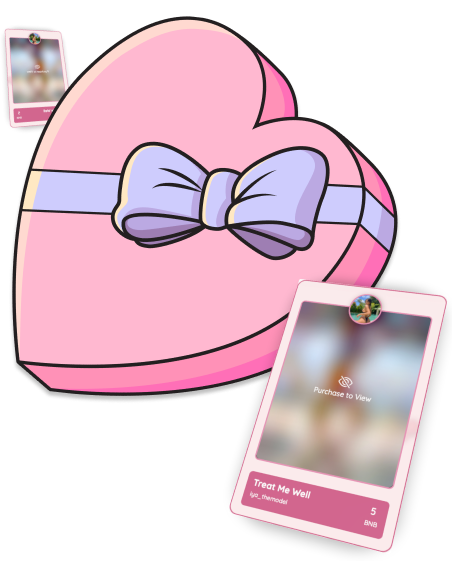
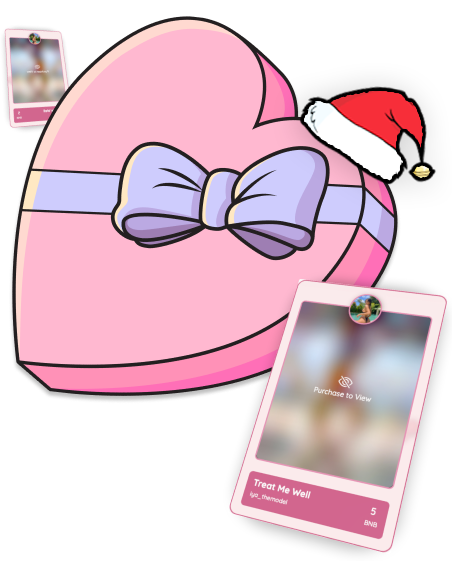
christmas update

Changed region(s): [[0.6504, 0.1515, 0.9602, 0.3333]]

diff --git a/pages/api/stream/sweet-shop-notifs.js b/pages/api/stream/sweet-shop-notifs.js
@@ -1,0 +1,104 @@
+import dbConnect from "../../../utils/dbConnect";
+import PendingNFT from "../../../models/PendingNFT";
+import NFT from "../../../models/NFT";
+import Model from "../../../models/Model";
+import withSession from "../../../lib/session";
+import { contractAddresses } from "../../../treat/lib/constants";
+
+import Web3 from "web3";
+
+dbConnect();
+
+const web3 = new Web3(
+  "https://divine-restless-feather.bsc.quiknode.pro/f9ead03ddd05508e4fe1f6952eea26ac035c8408/"
+);
+
+function wait(time) {
+  return new Promise((resolve, reject) => {
+    setTimeout(() => resolve("hello"), time);
+  });
+}
+// const contract = new web3.eth.Contract(
+//   TreatMarketplaceAbi,
+//   contractAddresses.creatorMart[56]
+// );
+
+export default withSession(async (req, res) => {
+  const { method } = req;
+
+  switch (method) {
+    case "GET":
+      try {
+        res.status(200).json({ success: true });
+      } catch (error) {
+        res.status(400).json({ success: false, error: error });
+      }
+      break;
+    case "POST":
+      try {
+        if (req.body.status !== "confirmed") return res.status(200);
+
+        if (!logs || logs.length === 0)
+          return res.status(200).json({ success: false });
+
+        const log = logs.find((l) => l.transactionHash === req.body.hash);
+        const logDataArray = log.data
+          .substring(2, log.data.length)
+          .match(/.{1,64}/g);
+        console.log({ logDataArray });
+
+        const numberOfNFTs = Web3.utils.hexToNumber("0x" + logDataArray[4]);
+        console.log({ numberOfNFTs });
+
+        const nftIDs = [...Array(numberOfNFTs).keys()].map((i) =>
+          web3.utils.hexToNumber("0x" + logDataArray[5 + i])
+        );
+        console.log({ nftIDs });
+
+        const pendingNFTs = await PendingNFT.find({
+          tx_hash: log.transactionHash,
+        });
+        console.log({ pendingNFTs });
+
+        await pendingNFTs.forEach(async (n, i) => {
+          try {
+            const nftExists = await NFT.findOne({ id: nftIDs[i] });
+            if (nftExists) return nftExists;
+
+            const newNFT = await NFT.create({
+              id: nftIDs[i],
+              ...n.toObject(),
+            });
+
+            await Model.updateOne(
+              { address: n.model_bnb_address },
+              {
+                $push: {
+                  nfts: {
+                    id: nftIDs[i],
+                  },
+                },
+              }
+            );
+
+            console.log({ newNFT });
+            return newNFT;
+          } catch (e) {
+            console.log({ e });
+          }
+        });
+        console.log({ numberOfNFTs, nftIDs });
+
+
+        res.status(200).json({ success: true });
+        // console.log({ logs });
+      } catch (error) {
+        console.log({ error });
+        res.status(200).json({ success: false, error: error });
+      }
+      break;
+    default:
+      res.status(400).json({ success: false });
+      break;
+  }
+});

diff --git a/pages/_app.js b/pages/_app.js
@@ -32,6 +32,7 @@ import {
 import "swiper/scss";
 import "swiper/scss/navigation";
 import "swiper/scss/pagination";
+import Snowfall from "react-snowfall";
 
 function MyApp({ Component, pageProps }) {
   const oldTokenBalance = useTokenBalance(
@@ -113,6 +114,10 @@ function MyApp({ Component, pageProps }) {
             content="Treat is an exclusive platform for creators to sell NFTs. Hold $TREAT to have a say on which creators are chosen & new platform features."
           />
         </Head>
+        <Snowfall
+          snowflakeCount={250}
+          color={"#FE93B9"}
+        />
         <SWRConfig
           value={{
             fetcher: fetch,
